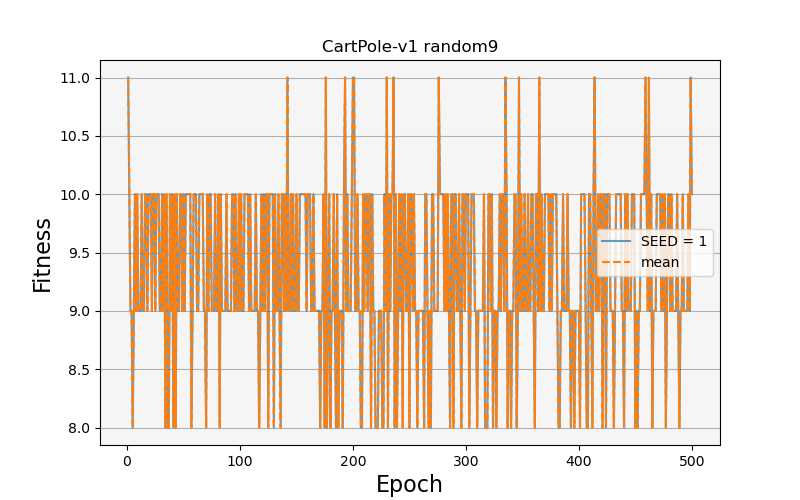
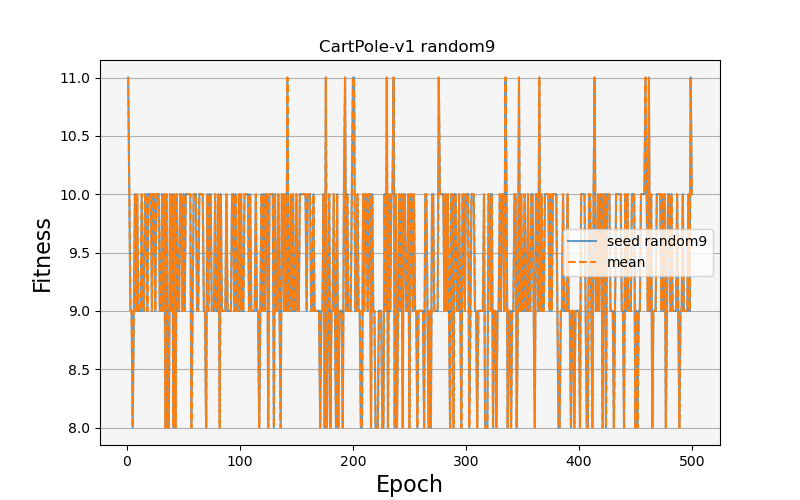
add images , readme , p5

Changed region(s): [[0.6875, 0.45, 0.875, 0.57], [0.4062, 0.06, 0.625, 0.12]]

diff --git a/p5/draw.py b/p5/draw.py
@@ -11,16 +11,16 @@ def main():
         record_csv_path = f'logs/CartPole-v1/{p}/train_performance/training_record.csv'
         ds_record_result = pd.read_csv(record_csv_path, header=None)
         # seed = int(data_dir[-1])
-        ys = ds_record_result[1].values
+        y_values = ds_record_result[1].values
         all_ys = []
-        all_ys.append(ys)
+        all_ys.append(y_values)
         all_ys = np.array(all_ys)
 
-        xs = list(range(1, len(ys)+1))
+        xs = list(range(1, len(y_values)+1))
         fig, ax = plt.subplots(figsize=(8, 5))
-        ax.plot(xs, ys, label='SEED = 1', alpha=0.7)
+        ax.plot(xs, y_values, label=f'seed {p}', alpha=0.7)
         ax.plot(xs, all_ys.mean(axis=0), label='mean', linestyle='--')
-        ax.set_title(f'CartPole-v1 {p}')
+        ax.set_title(f'CartPole-v1 {p} ')
         ax.legend()
         ax.grid(axis='y')
         ax.set_facecolor('whitesmoke')
@@ -28,6 +28,9 @@ def main():
         ax.set_ylabel('Fitness', fontsize=16)
         plt.savefig(f'logs/CartPole-v1/{p}/train_performance/plot.png')
         plt.savefig(f'{p}.png')
+        
+        # # print the average learning performance
+        # print(f' the average training performance of the last training record is {y_values[-1]} ')
         
     plt.show()
 
